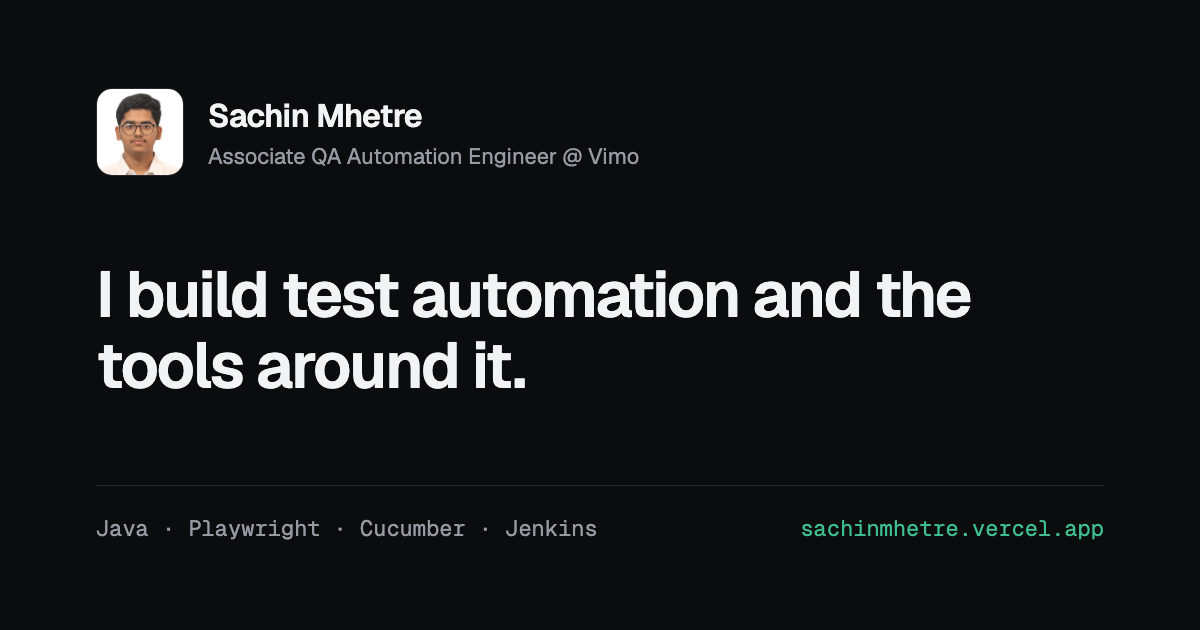
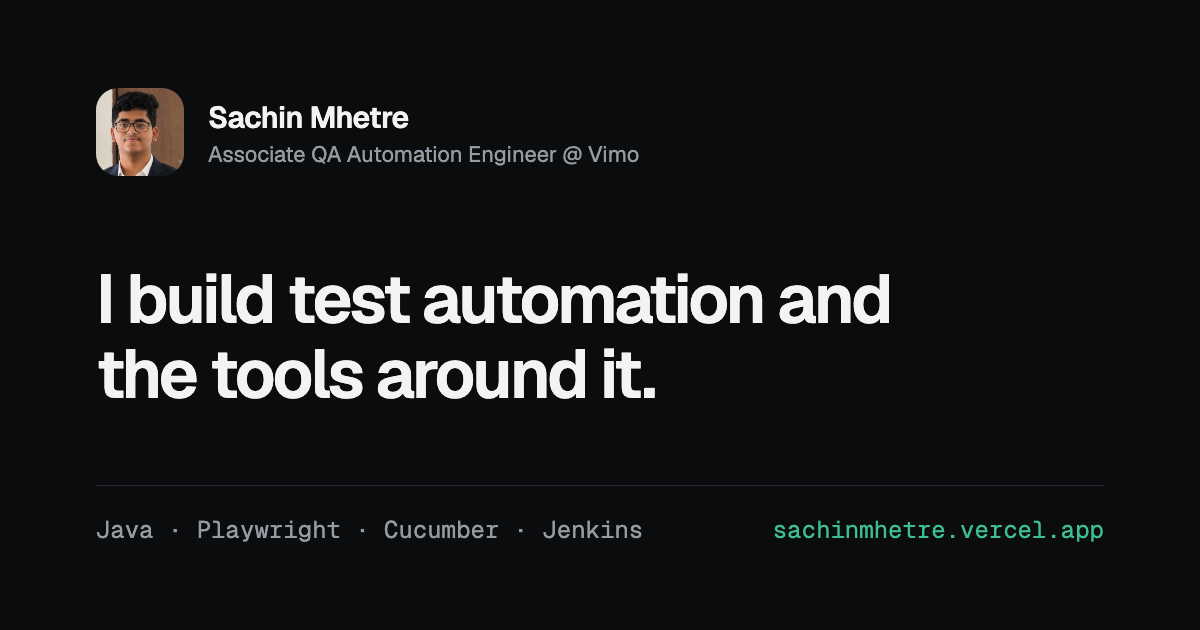
feat: use new portrait in hero, nav and Open Graph image
Square photo is zoomed to head and shoulders with object-position 50% 15%.
Hero and nav share one Portrait component; shared pill link and fonts move to common/.

diff --git a/src/modules/home/components/Hero.tsx b/src/modules/home/components/Hero.tsx
@@ -1,13 +1,10 @@
 import { CSSProperties, PointerEvent, useRef } from 'react';
 
-import Image from '@/common/components/elements/Image';
+import { PillLink } from '@/common/components/elements/PillLink';
+import Portrait from '@/common/components/elements/Portrait';
+import { geistItalic } from '@/common/fonts';
 import cn from '@/common/libs/cn';
-
-import { geistItalic } from '../fonts';
-import { PillLink } from './Pill';
-
-const step = (i: number) => ({ '--i': i } as CSSProperties);
-const reveal = 'stagger motion-safe:animate-reveal';
+import { reveal, step } from '@/common/libs/motion';
 
 const Hero = () => {
   const glowRef = useRef<HTMLDivElement>(null);
@@ -95,31 +92,18 @@ const Hero = () => {
         <div
           className={cn(
             reveal,
-            'relative mx-auto w-full max-w-[300px] lg:max-w-[360px]'
+            'mx-auto w-full max-w-[300px] lg:max-w-[360px]'
           )}
           style={{ ...step(3), '--base': '120ms' } as CSSProperties}
         >
-          <div
-            aria-hidden
-            className='absolute -inset-6 -z-10 rounded-full bg-accent/20 blur-3xl'
-          />
-          <div className='rotate-3 overflow-hidden rounded-[999px_999px_32px_32px] border border-accent/40 bg-surface-1 p-2 shadow-[0_0_0_6px_var(--accent-soft),0_30px_70px_-30px_rgb(0_0_0/0.5)]'>
-            <Image
-              src='/images/sachin.jpg'
-              alt='Sachin Mhetre'
-              width={827}
-              height={762}
-              priority
-              sizes='(min-width: 1024px) 360px, 300px'
-              className='aspect-[4/5] w-full rounded-[999px_999px_24px_24px] object-cover object-top'
-            />
-          </div>
-          <span
-            className='stagger absolute -left-3 bottom-10 inline-flex h-10 -rotate-6 items-center gap-2 whitespace-nowrap rounded-full border border-hairline bg-surface-1 px-4 text-body-sm text-ink shadow-[0_10px_30px_-12px_rgb(0_0_0/0.35)] motion-safe:animate-reveal md:-left-8'
-            style={{ '--i': 0, '--base': '900ms' } as CSSProperties}
-          >
-            <span aria-hidden>👋</span> Pune, India
-          </span>
+          <Portrait priority sizes='(min-width: 1024px) 576px, 480px'>
+            <span
+              className='stagger absolute -left-3 bottom-10 inline-flex h-10 -rotate-6 items-center gap-2 whitespace-nowrap rounded-full border border-hairline bg-surface-1 px-4 text-body-sm text-ink shadow-[0_10px_30px_-12px_rgb(0_0_0/0.35)] motion-safe:animate-reveal md:-left-8'
+              style={{ '--i': 0, '--base': '900ms' } as CSSProperties}
+            >
+              <span aria-hidden>👋</span> Pune, India
+            </span>
+          </Portrait>
         </div>
       </div>
     </section>

diff --git a/src/common/components/elements/PillLink.tsx b/src/common/components/elements/PillLink.tsx
@@ -1,0 +1,50 @@
+import Link from 'next/link';
+import { ReactNode } from 'react';
+
+import cn from '@/common/libs/cn';
+
+interface PillLinkProps {
+  href: string;
+  children: ReactNode;
+  variant?: 'primary' | 'secondary';
+  className?: string;
+}
+
+// Pill-shaped link button used across the site (pill rule: all interactive elements are full-radius).
+export const pillClassName = (
+  variant: 'primary' | 'secondary' = 'primary',
+  className?: string
+) =>
+  cn(
+    'inline-flex h-12 items-center justify-center gap-2 rounded-full px-6 text-body font-medium transition-[color,background-color,border-color,transform] duration-200 motion-safe:hover:-translate-y-0.5 motion-safe:active:translate-y-0 motion-safe:active:scale-[0.98]',
+    variant === 'primary'
+      ? 'bg-accent text-on-accent hover:bg-accent-hover'
+      : 'border border-hairline-strong bg-surface-1 text-ink hover:bg-surface-2',
+    className
+  );
+
+export const PillLink = ({
+  href,
+  children,
+  variant = 'primary',
+  className,
+}: PillLinkProps) => {
+  if (/^https?:/.test(href)) {
+    return (
+      <a
+        href={href}
+        target='_blank'
+        rel='noopener noreferrer'
+        className={pillClassName(variant, className)}
+      >
+        {children}
+        <span className='sr-only'>(opens in new tab)</span>
+      </a>
+    );
+  }
+  return (
+    <Link href={href} className={pillClassName(variant, className)}>
+      {children}
+    </Link>
+  );
+};

diff --git a/src/common/components/elements/Portrait.tsx b/src/common/components/elements/Portrait.tsx
@@ -1,0 +1,38 @@
+import { ReactNode } from 'react';
+
+import Image from '@/common/components/elements/Image';
+import cn from '@/common/libs/cn';
+
+interface PortraitProps {
+  className?: string;
+  priority?: boolean;
+  sizes: string;
+  children?: ReactNode;
+}
+
+// Arch-framed portrait with emerald glow and a slight tilt. The photo is square, so it is
+// zoomed (scale + origin) to head and shoulders; object-position keeps the head near the top.
+const Portrait = ({ className, priority, sizes, children }: PortraitProps) => (
+  <div className={cn('relative mx-auto w-full', className)}>
+    <div
+      aria-hidden
+      className='absolute -inset-6 -z-10 rounded-full bg-accent/20 blur-3xl'
+    />
+    <div className='rotate-3 overflow-hidden rounded-[999px_999px_32px_32px] border border-accent/40 bg-surface-1 p-[3%] shadow-[0_0_0_6px_var(--accent-soft),0_30px_70px_-30px_rgb(0_0_0/0.5)]'>
+      <div className='relative aspect-[4/5] overflow-hidden rounded-[999px_999px_24px_24px]'>
+        <Image
+          src='/images/sachin-portrait.jpg'
+          alt='Sachin Mhetre'
+          fill
+          priority={priority}
+          sizes={sizes}
+          quality={85}
+          className='origin-[50%_15%] scale-[1.6] object-cover object-[50%_15%]'
+        />
+      </div>
+    </div>
+    {children}
+  </div>
+);
+
+export default Portrait;

diff --git a/src/modules/home/components/Sections.tsx b/src/modules/home/components/Sections.tsx
@@ -6,8 +6,8 @@ import { FEATURED_PROJECTS } from '@/common/constant/projects';
 import cn from '@/common/libs/cn';
 import { Project } from '@/common/types/projects';
 
-import { caveat } from '../fonts';
-import { PillLink } from './Pill';
+import { caveat } from '@/common/fonts';
+import { PillLink } from '@/common/components/elements/PillLink';
 import RoutingMockup from './RoutingMockup';
 
 const PROOF = [

diff --git a/src/common/fonts.ts b/src/common/fonts.ts
@@ -3,7 +3,7 @@ import localFont from 'next/font/local';
 
 // True Geist italic for the hero headline (geist only exports the upright face).
 export const geistItalic = localFont({
-  src: '../../../node_modules/geist/dist/fonts/geist-sans/Geist-Italic[wght].woff2',
+  src: '../../node_modules/geist/dist/fonts/geist-sans/Geist-Italic[wght].woff2',
   weight: '100 900',
   style: 'italic',
   display: 'swap',

diff --git a/src/common/constant/site.ts b/src/common/constant/site.ts
@@ -4,8 +4,6 @@ export const SITE = {
   title: 'Sachin Mhetre · QA Automation Engineer',
   description:
     'QA automation engineer in Pune. I build test automation and the tooling around it with Java, Playwright, Cucumber and Jenkins.',
-  status: 'Associate QA Automation Engineer @ Vimo',
-  avatar: '/images/sachin.jpg',
   ogImage: '/og.png',
   twitter: '@Sachin_Mhetre_',
 };
